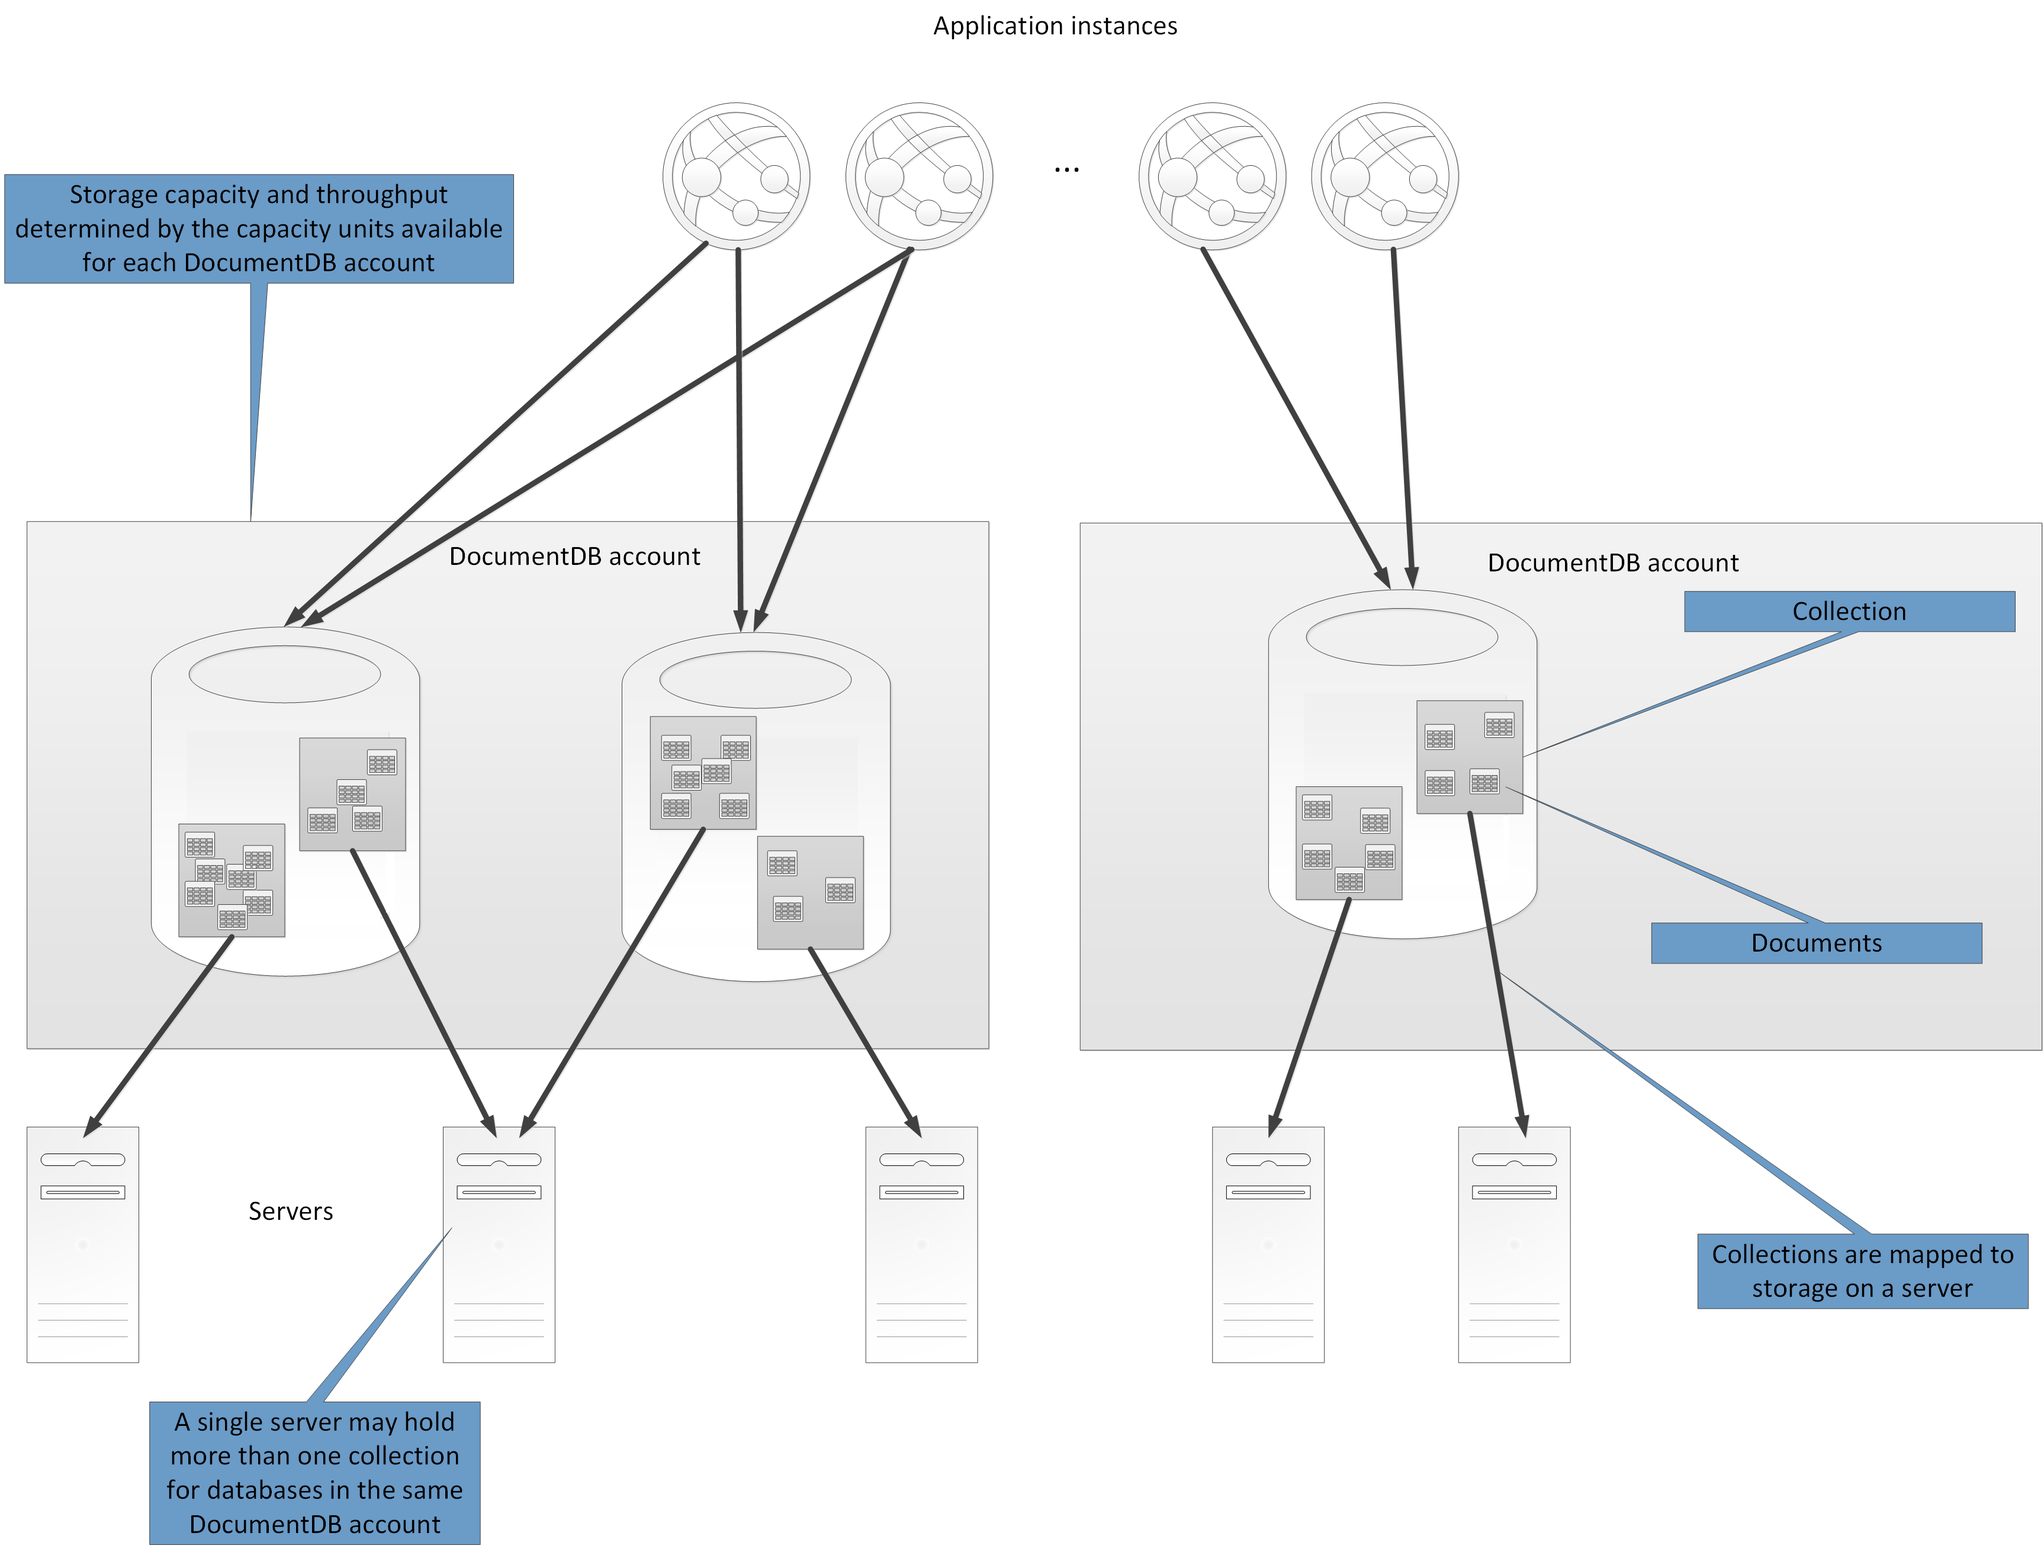
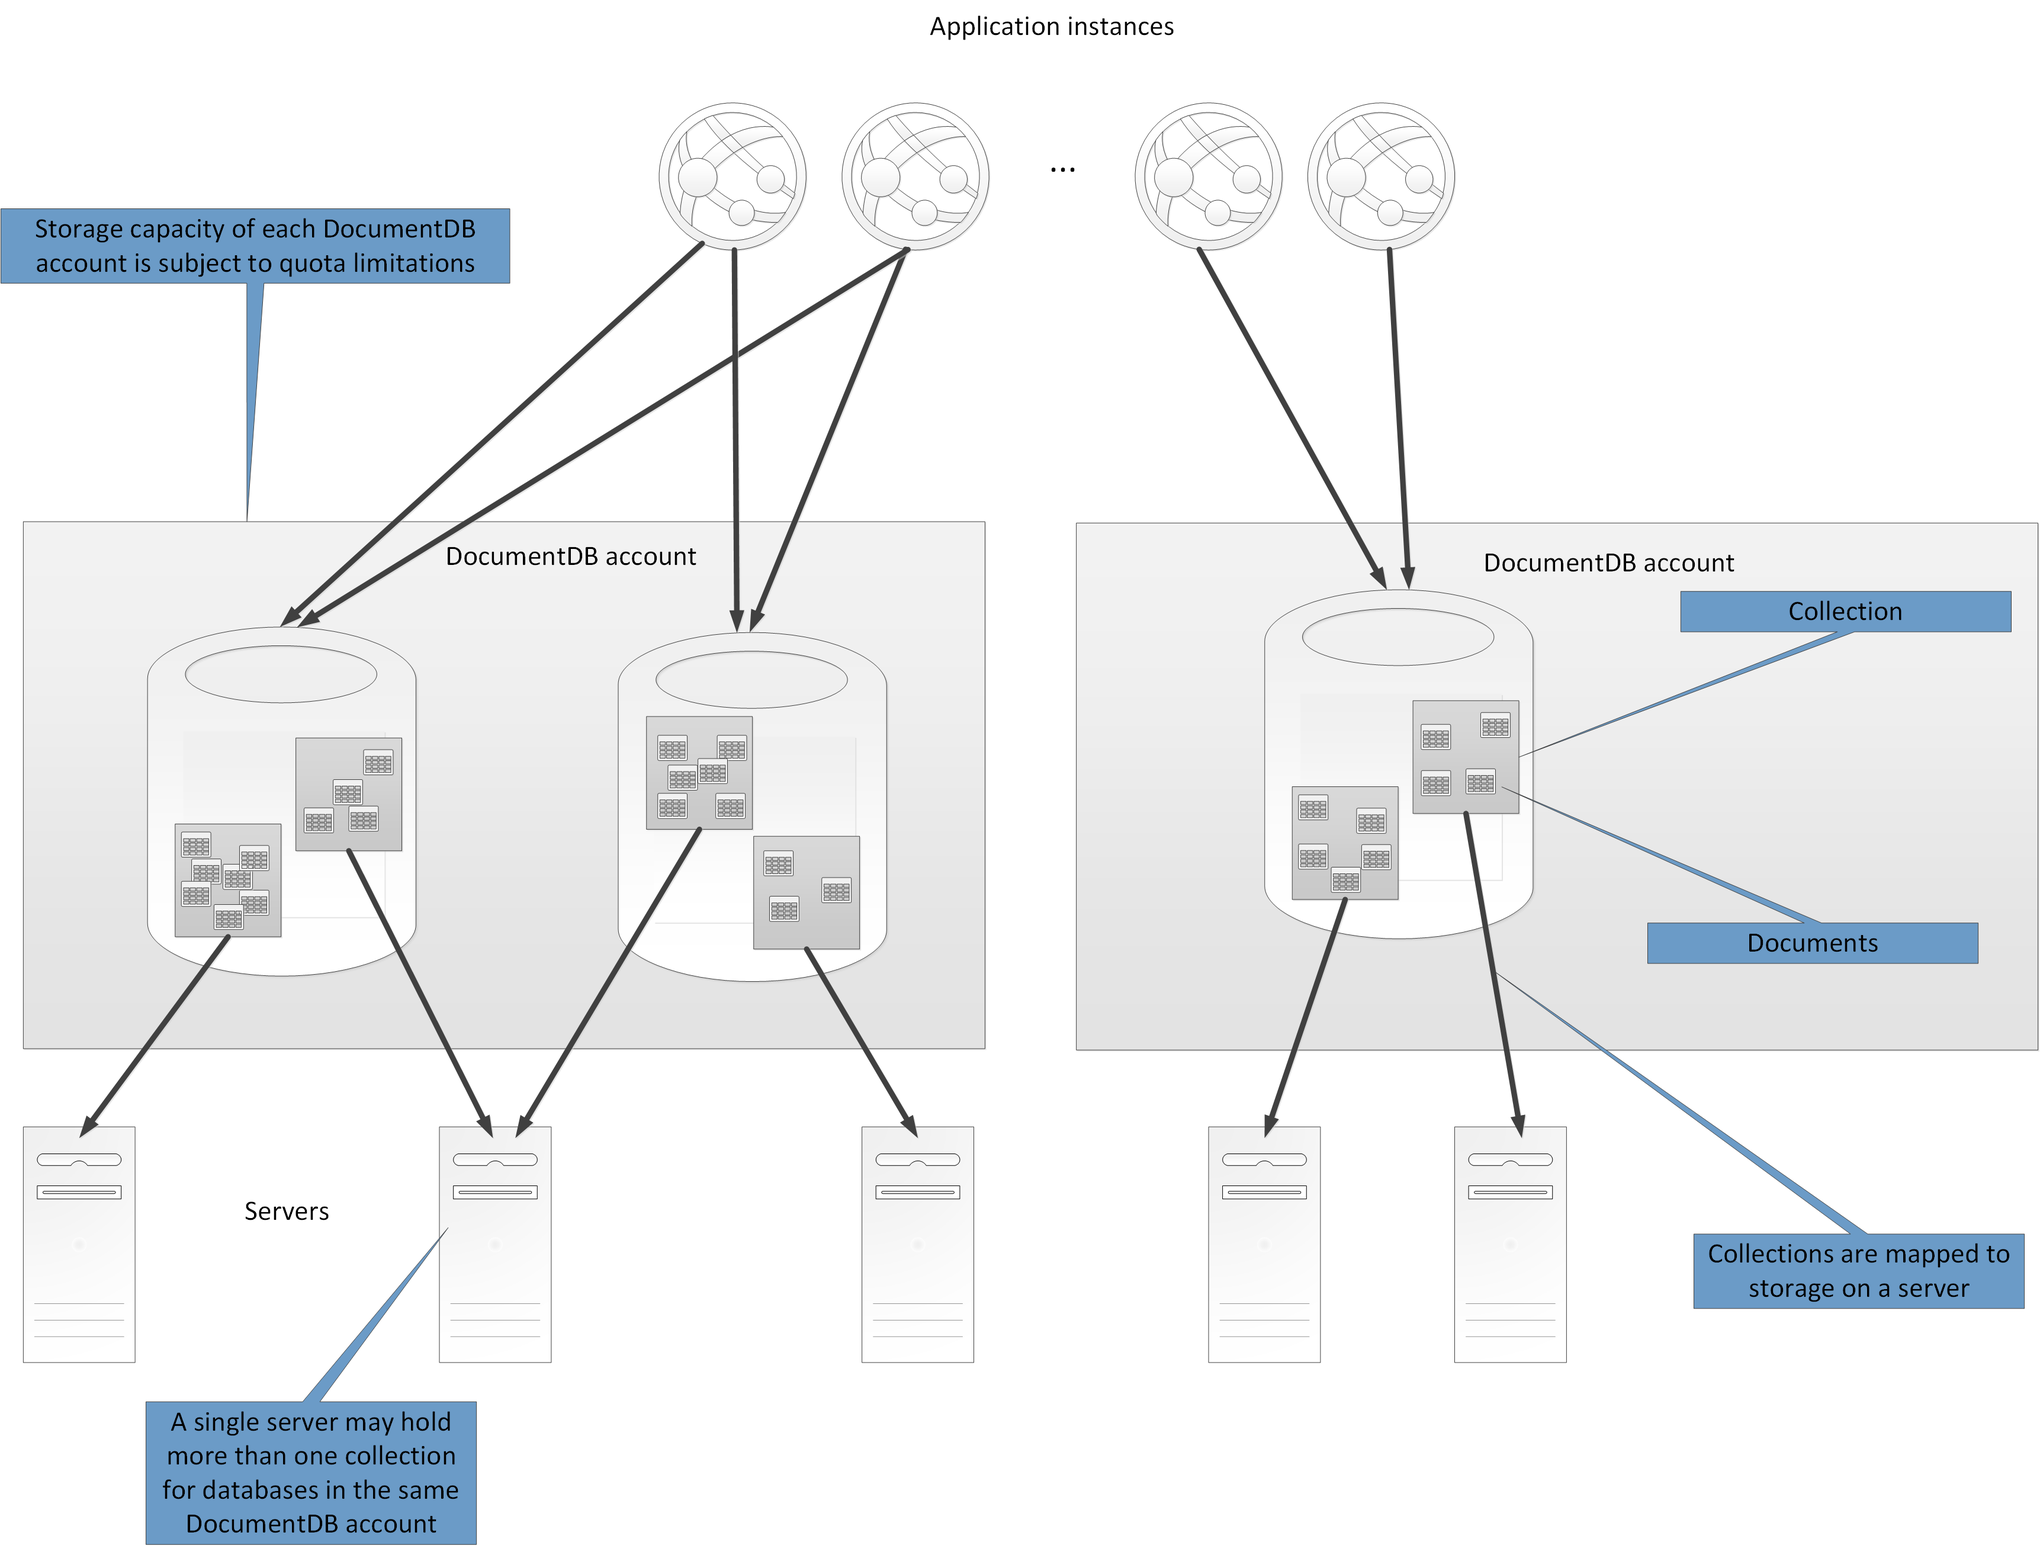
Updated DocumentDB section to remove references to capacity units and switch to performance levels

diff --git a/Data-partitioning.md b/Data-partitioning.md
@@ -257,12 +257,14 @@ Blob storage is automatically partitioned based on the blob name. Each blob is h
 The actions of writing a single block (block blob) or page (page blob) are atomic, but operations that span blocks, pages, or blobs are not. If you need to ensure consistency when performing write operations across blocks, pages, and blobs, you will need to take out a write lock by using a blob lease.
 
 Azure blob storage supports transfer rates of up to 60MB per second or 500 requests per second for each blob. If you anticipate surpassing these limits, and the blob data is relatively static, then consider replicating blobs by using the Azure Content Delivery Network (CDN). For more information, see the page [Using CDN for Azure](http://azure.microsoft.com/en-us/documentation/articles/cdn-how-to-use/) on the Microsoft website. For additional guidance and considerations, see the article Content Delivery Network (CDN).
+
 ## Partitioning Azure storage queues
 Azure storage queues enable you to implement asynchronous messaging between processes. An Azure storage account can contain any number of queues, and each queue can contain any number of messages. The only limitation is the space available in the storage account. The maximum size of an individual message is 64KB. If you require messages bigger than this, then consider using Azure Service Bus queues instead.
 
 Each storage queue has a unique name within the storage account in which it is contained. Azure partitions queues based on the name, and all messages for the same queue are stored in the same partition, controlled by a single server. Different queues can be managed by different servers to help balance the load. The allocation of queues to servers is transparent to applications and users. In a large scale application, don't use the same storage queue for all instances of the application as this approach may cause the server hosting the queue to become a hotspot; use different queues for different functional areas of the application. Azure storage queues do not support transactions, so directing messages to different queues should have little impact on messaging consistency.
 
 An Azure storage queue can handle up to 2000 messages per second.  If you need to process messages at a greater rate than this then consider creating multiple queues. For example, in a global application, create separate storage queues in separate storage accounts to handle application instances running in each region.
+
 # Partitioning strategies for Azure Service Bus
 Azure Service Bus uses a message broker to handle messages sent to a Service Bus queue or topic. By default, all messages sent to a queue or topic are handled by the same message broker process. This architecture can place a limitation on the overall throughput of the message queue. However, you can also partition a queue or topic when it is created by setting the _EnablePartitioning_ property of the queue or topic description to _true_. A partitioned queue or topic is divided up into multiple fragments, each of which is backed by a separate message store and message broker. Service Bus takes responsibility for creating and managing these fragments. When an application posts a message to a partitioned queue or topic, Service Bus assigns the message to a fragment for that queue or topic. When an application receives a message from a queue or subscription, Service Bus checks each fragment for the next available message and then passes it to the application for processing. This structure helps to distribute the load across message brokers and message stores, increasing scalability and improving availability; if the message broker or message store for one fragment is temporarily unavailable, Service Bus can retrieve messages from one of the remaining available fragments.
 
@@ -282,18 +284,21 @@ You should consider the following points when deciding and how, or whether, to p
 - Messages that are sent as part of a transaction must specify a partition key. This can be a _SessionId, PartitionKey,_ or _MessageId_. All messages that are sent as part of the same transaction must specify the same partition key because they must be handled by the same message broker process. You cannot send messages to different queues or topics within the same transaction.
 - You cannot configure a partitioned queue or topic to be automatically deleted when it becomes idle.
 - If you are building cross-platform or hybrid solutions, you cannot currently use partitioned queues and topics with the Advanced Message Queuing Protocol (AMQP).
+
 # Partitioning strategies for Azure DocumentDB
 Azure DocumentDB is a NoSQL database that can store documents. A document in DocumentDB is a JSON-serialized representation of an object or other piece of data. No fixed schemas are enforced except that every document must contain a unique ID.
 
-Database resources are provisioned (and billed) in terms of capacity units; a single capacity unit provides a fixed maximum amount of storage space, and also defines the maximum throughput (defined in terms of request units) allowed before access to the database is throttled. For more information about capacity units and request units, visit the page [Manage DocumentDB Capacity and Performance](http://azure.microsoft.com/en-us/documentation/articles/documentdb-manage/) on the Microsoft website.
-
 Documents are organized into collections. A collection enables you to group related documents together. For example, in a system that maintains blog postings, you could store the contents of each blog post as a document in a collection, and create collections for each subject type. Alternatively, in a multitenant application such as a system that enables different authors to control and manage their own blog posts, you could partition blogs by author and create a separate collection for each author. The storage space allocated to collections is elastic and can shrink or grow as needed.
 
-Document collections provide a natural mechanism to partition data within a single database. Internally, a DocumentDB database can span several servers, and DocumentDB may attempt to spread the load by distributing collections across servers. The simplest way to implement sharding is to create a collection for each shard.
+Document collections provide a natural mechanism to partition data within a single database. Internally, a DocumentDB database can span several servers, and DocumentDB may attempt to spread the load by distributing collections across servers. The simplest way to implement sharding is to create a collection for each shard. 
 
-All databases are created in the context of a DocumentDB account. A single DocumentDB account can contain several databases, and specifies in which region the databases are created (see the page [DocumentDB Limits for the Preview Release](http://azure.microsoft.com/en-us/documentation/articles/documentdb-limits/) on the Microsoft website for more information). Each DocumentDB account also enforces its own access control. You can use DocumentDB accounts to geo-locate shards (collections within databases) close to the users that need to access them, and enforce restrictions so that only those users can connect to them.
+> **Note:** Each DocumentDB is allocated resources in terms of a _performance level_. A performance level is associated with with a _request unit_ (RU) rate limit. The RU rate limit specifies the volume of resources that will be reserved for that collection and is available for exclusive use by that collection. The cost of a collection depends on the performance level selected for that collection; the higher the performance level (and RU rate limit) the higher the charge. You can adjust the performance level of a collection by using the Azure management portal. For more information, see the page [Performance levels in DocumentDB](http://azure.microsoft.com/documentation/articles/documentdb-performance-levels/) on the Microsoft website.
 
-If you implement a system where all shards belong to the same database, or are spread across databases that belong to the same DocumentDB account, you might reach the resource limits defined by the available capacity units for that DocumentDB account. In this case, you can either add more capacity units, or if this is not possible then create additional DocumentDB accounts and databases and distributing the shards across these databases. Another advantage of using multiple databases is that each database has its own set of users and permissions, so you can use this mechanism to isolate access to collections on a per-database basis. Figure 8 illustrates the high-level structure of the DocumentDB architecture.
+All databases are created in the context of a DocumentDB account. A single DocumentDB account can contain several databases, and specifies in which region the databases are created. Each DocumentDB account also enforces its own access control. You can use DocumentDB accounts to geo-locate shards (collections within databases) close to the users that need to access them, and enforce restrictions so that only those users can connect to them.
+
+Each DocumentDB account has a quota that limits the number of databases and collections that it can contain and the amount of document storage available. These limits are subject to change, but are described on the page [DocumentDB limits and quotas](http://azure.microsoft.com/documentation/articles/documentdb-limits/) on the Microsoft website. It is theoretically possible that if you implement a system where all shards belong to the same database you might reach the storage capacity limit of the account. In this case, you may need to create additional DocumentDB accounts and databases, and distribute the shards across these databases. However, even if you are unlikely to hit the storage capacity of a database, a good reason for using multiple databases is that each database has its own set of users and permissions. You can use this mechanism to isolate access to collections on a per-database basis. 
+
+Figure 8 illustrates the high-level structure of the DocumentDB architecture.
 
 ![](figures/DataPartitioning/DocumentDBStructure.png)
 
@@ -307,12 +312,12 @@ _Figure 9. - Implementing sharding using Azure DocumentDB_
 
 You should consider the following points when deciding how to partition data with DocumentDB:
 
-- The resources available to a DocumentDB database are determined by the number of capacity units assigned to a DocumentDB account. Each capacity unit supports up to 3 elastic collections, 10GB of SSD backed provisioned document storage and 2000 request units worth of provisioned throughput. The provisioned storage and the throughput capacity associated with a capacity unit are distributed across the DocumentDB collections you create. There are also limits to the number of databases that you can create in a DocumentDB account, and the number of capacity units that can be allocated to a database. For more information, visit the [DocumentDB Limits](http://azure.microsoft.com/en-us/documentation/articles/documentdb-limits/) page on the Microsoft website.
+- The resources available to a DocumentDB database are subject to the quota limitations of the DocumentDB account. Each database can hold a number of collections (again, there is a limit) and each collection is associated with a performance level that governs the RU rate limit (reserved throughput) for that collection. For more information, visit the [DocumentDB limits and quotas](http://azure.microsoft.com/documentation/articles/documentdb-limits/) page on the Microsoft website.
 - Each document must have an attribute that can be used to uniquely identify that document within the collection in which it is held. This is different from the shard key which defines in which collection the document is held. A collection can contain a large number of documents, in theory only limited by the maximum length of the document ID. The document ID can be up to 255 characters.
 - All operations against a document are performed within the context of a transaction that is scoped to the collection in which the document is contained. If an operation fails, the work that it has performed is rolled back.  While a document is subject to an operation, any changes made are subject to snapshot level isolation. This mechanism guarantees that if, for example, a request to create a new document fails, another user querying the database simultaneously will not see a partial document that is then removed.
 - DocumentDB queries are also scoped to the collection level. A single query can only retrieve data from one collection. If you need to retrieve data from multiple collections you must query each collection individually and merge the results in your application code.
 - DocumentDB supports programmable items that can all be stored in a collection alongside documents: stored procedures, user-defined functions, and triggers (written in JavaScript). These items can access any document within the same collection. Furthermore, these items execute either inside the scope of the ambient transaction (in the case of a trigger that fires as the result of a create, delete, or replace operation performed against a document), or by starting a new transaction (in the case of a stored procedure that is executed as the result of an explicit client request). If the code in a programmable item throws an exception, the transaction is rolled back. You can use stored procedures and triggers to maintain integrity and consistency between documents, but these documents must all be part of the same collection. 
-- You should ensure that the collections that you intend to hold in the databases in a DocumentDB account are unlikely to exceed the sizing and throughput limits of the available capacity units for that account. These limits are described on the [Manage DocumentDB Capacity and Performance](http://azure.microsoft.com/en-us/documentation/articles/documentdb-manage/) page on the Microsoft website. If you anticipate reaching these limits, then either scale the DocumentDB account by adding more capacity units (you can monitor the load and implement autoscaling), or split collections across databases in different DocumentDB accounts to reduce the load per account.
+- You should ensure that the collections that you intend to hold in the databases in a DocumentDB account are unlikely to exceed the throughput limits defined by the performance levels of the collections. These limits are described on the [Manage DocumentDB capacity needs](http://azure.microsoft.com/en-us/documentation/articles/documentdb-manage/) page on the Microsoft website. If you anticipate reaching these limits, consider splitting collections across databases in different DocumentDB accounts to reduce the load per collection.
 
 # Partitioning Strategies for Azure Search
 The ability to search for data is often the primary method of navigation and exploration provided by many web applications, enabling users to quickly find resources (for example, products in an ecommerce application) based on combinations of search criteria. The Azure Search service provides full-text search capabilities over web content, and includes features such as type-ahead, suggested queries based on near matches, and faceted navigation. A full description of these capabilities is available on the [Azure Search Overview](https://msdn.microsoft.com/library/azure/dn798933.aspx) page on the Microsoft website.
